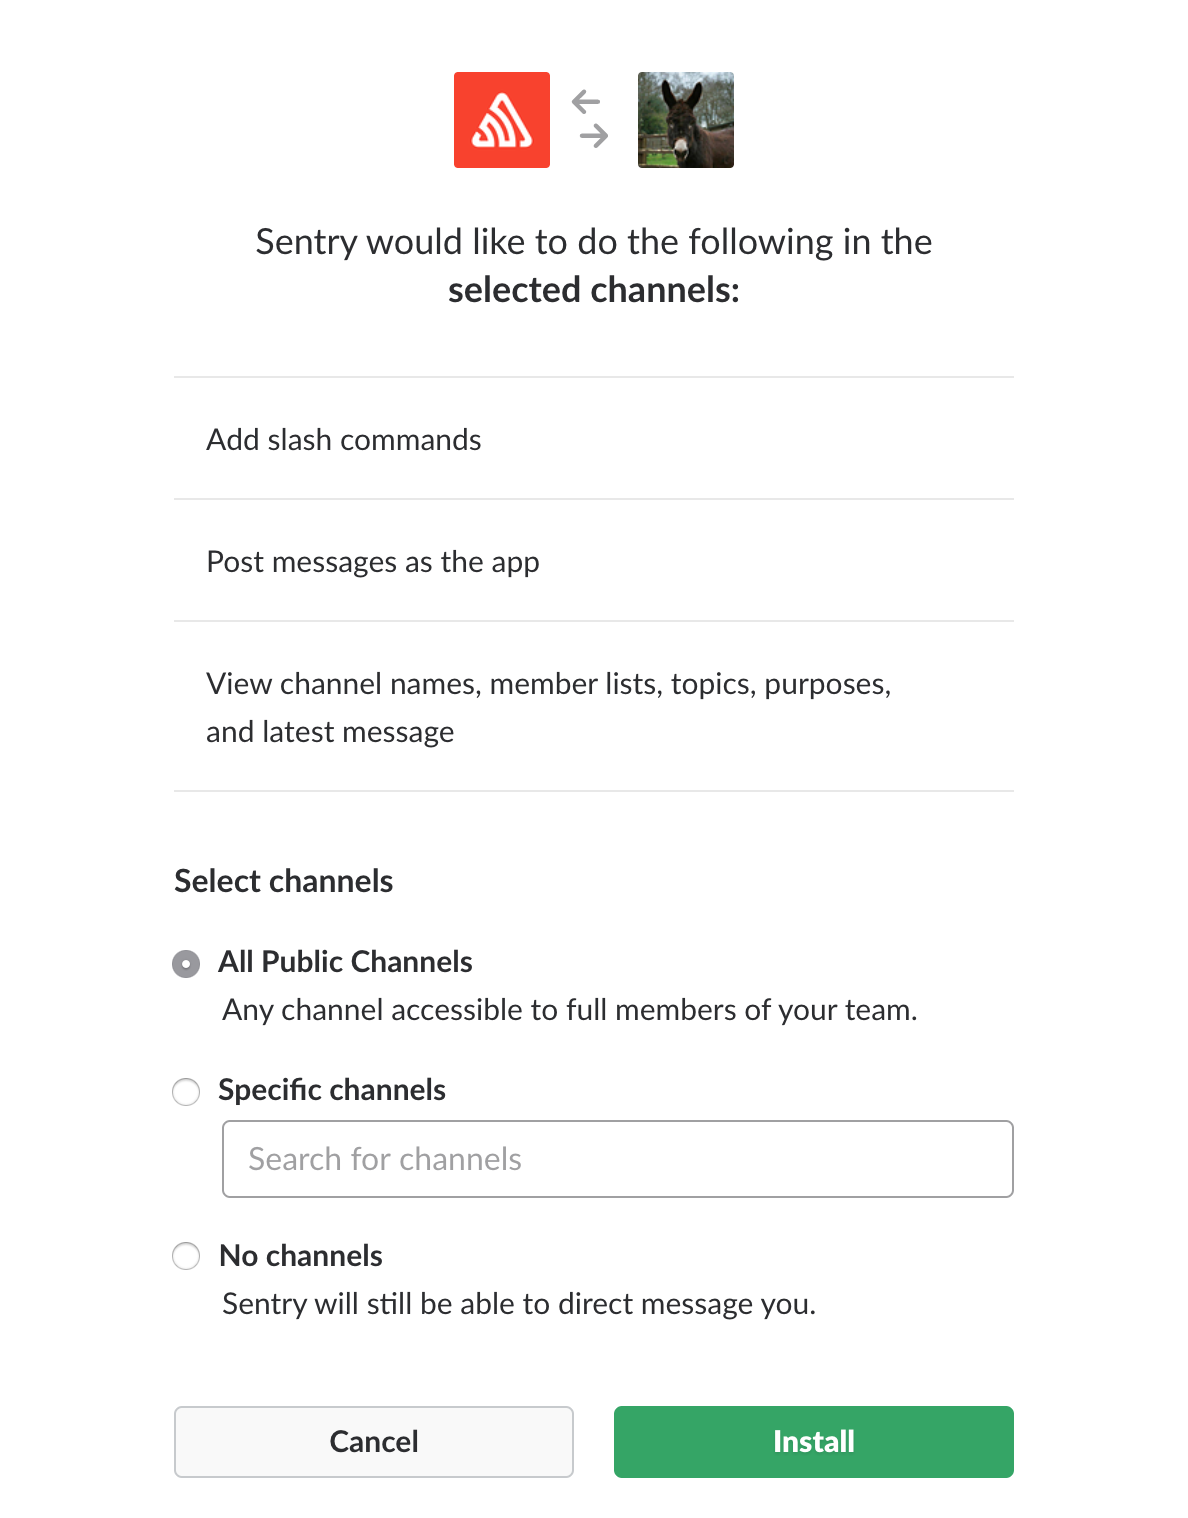
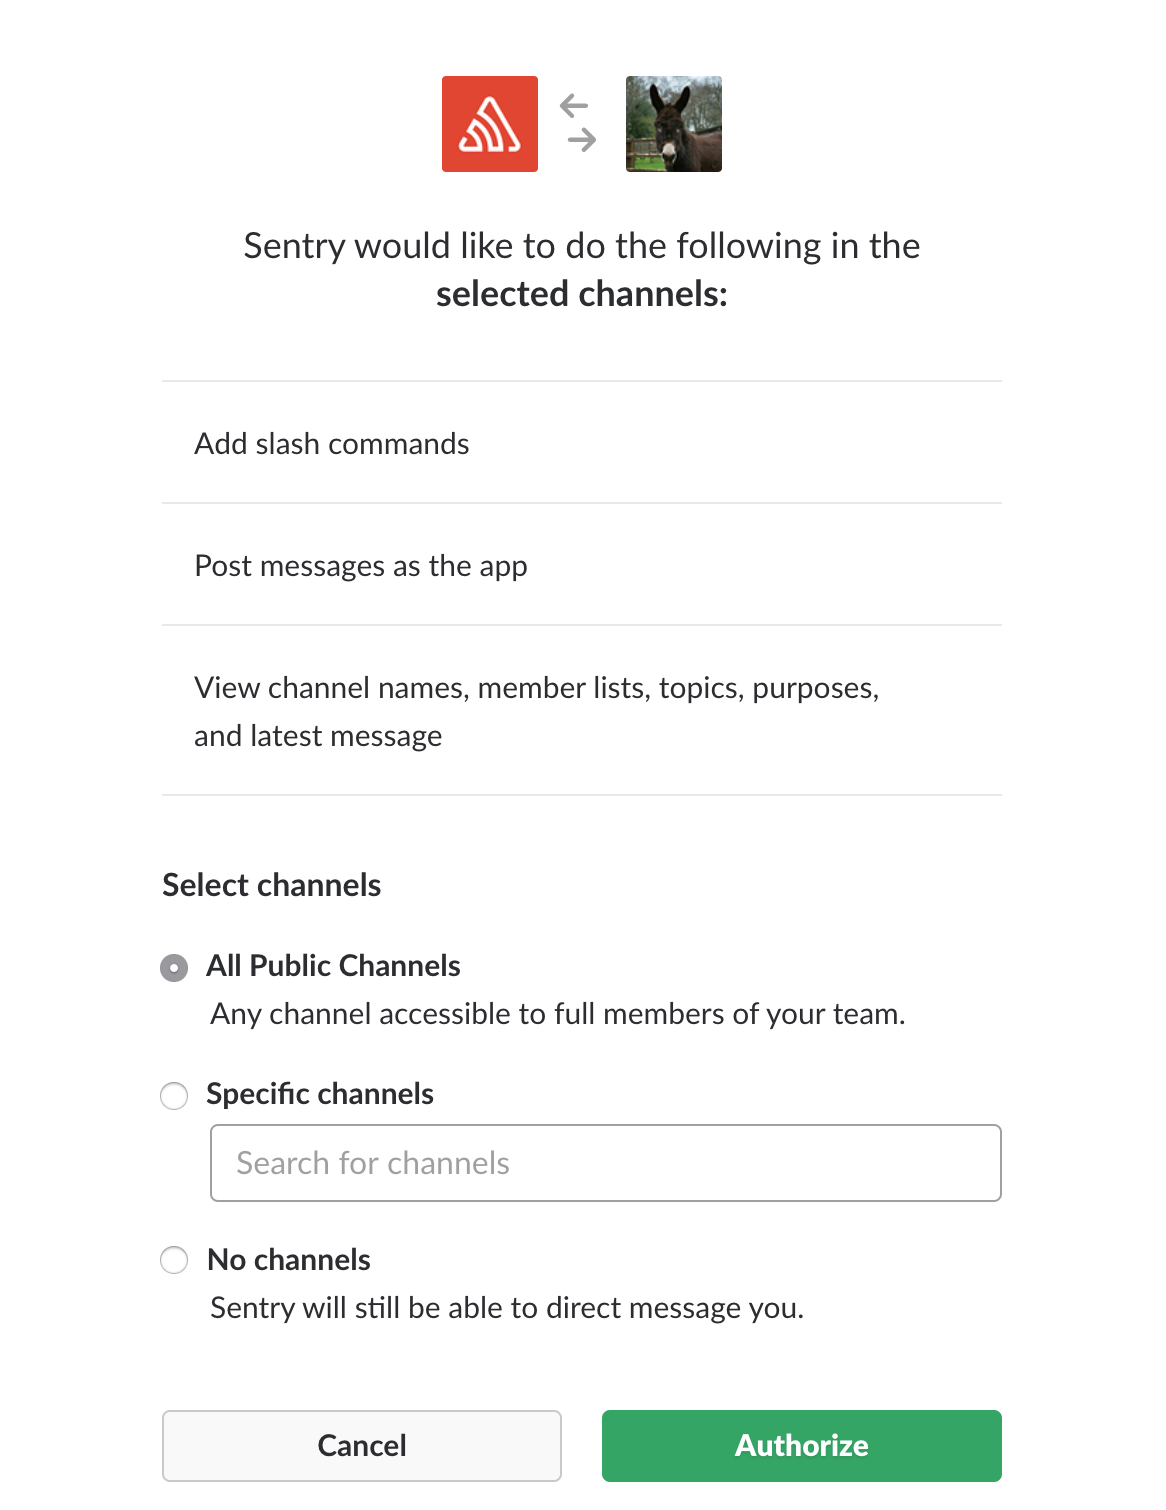
fix(integrations) add note about owners, new image

diff --git a/docs/integrations/slack.rst b/docs/integrations/slack.rst
@@ -1,6 +1,8 @@
 Slack
 ======
 
+.. note:: The new Slack integration is only available for Sentry's early adopters -- you can enable early adopters in your **Organization Settings** under **General**.
+
 Sentry's new Slack integration creates workflows for your team, instead of a notification stream. Now you can triage, resolve, and ignore issues directly from Slack.
 
 Configure Slack
@@ -8,19 +10,22 @@ Configure Slack
 
 You can authorize the Slack integration globally by clicking on **All Integrations** under your **Project settings**.
 
-At the top of the page, you'll see the available Global Integrations which includes Slack. Click on **Slack** to integrate your Slack workspace(s) with your project.
-    .. image:: img/slack-global-integration-project-settings-add-workspace.jpg
+At the top of the page, you'll see the available Global Integrations list, which includes Slack. Click on **Slack** to integrate your Slack workspace(s) with your project.
+
+    .. image:: img/slack-all-integrations-page.png
        :width: 70%
 
-Click **Add workspace**
+Click **Add workspace**:
 
-    .. image:: img/slack-global-integration-project-settings-add-workspace.jpg
-       :width: 70%
+.. image:: img/slack-global-integration-project-settings-add-workspace.png
+   :width: 70%
 
 A new window will open to connect your Slack workspace with Sentry:
 
     .. image:: img/slack-auth-choose-workspace.png
        :width: 70%
+
+*You must be your Slack workspace Owner to authorize Sentry.*
 
 .. note:: You can toggle the Slack workspace you want to connect in the dropdown menu in the upper right corner of the authentication window. To set up multiple workspaces, go through this process for each separate workspace.
 
@@ -28,14 +33,14 @@ After you ensure you're connecting the correct workspace, click **Continue**.
 
 On the next page, you can choose the scope of channels you'd like Sentry to access. You can specify all public channels or choose specific channels.
 
-    .. image:: img/slack-auth-channel-pref.png
+  .. image:: img/slack-auth-channel-pref.png
        :width: 60%
 
 Click **Authorize**.
 
 Your Project Integrations page will refresh and show the Slack workspace you just added.
 
-    .. image:: img/slack-add-workspace-success.png
+  .. image:: img/slack-add-workspace-success.png
        :width: 70%
 
 You'll also see the Sentry app join the Slack channels you specified right away:
